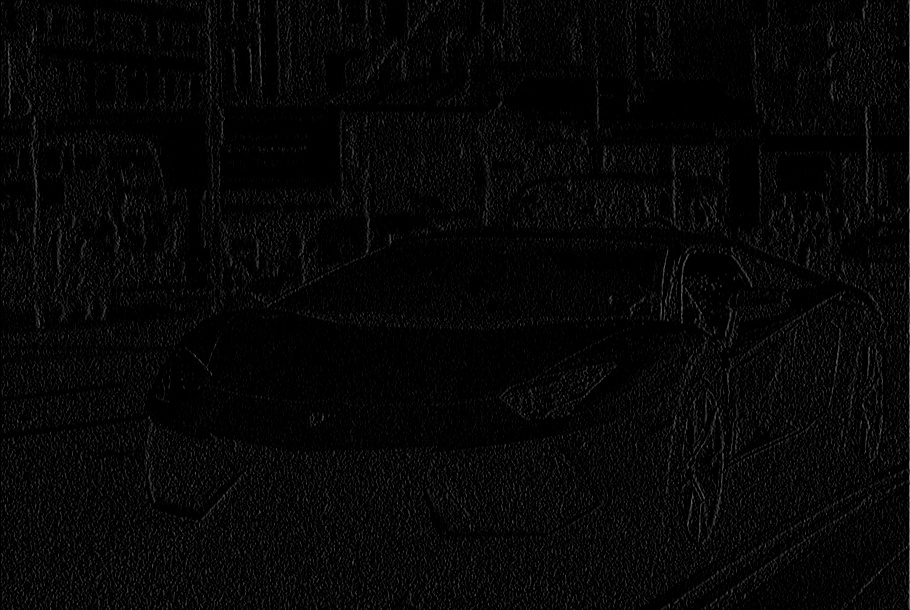
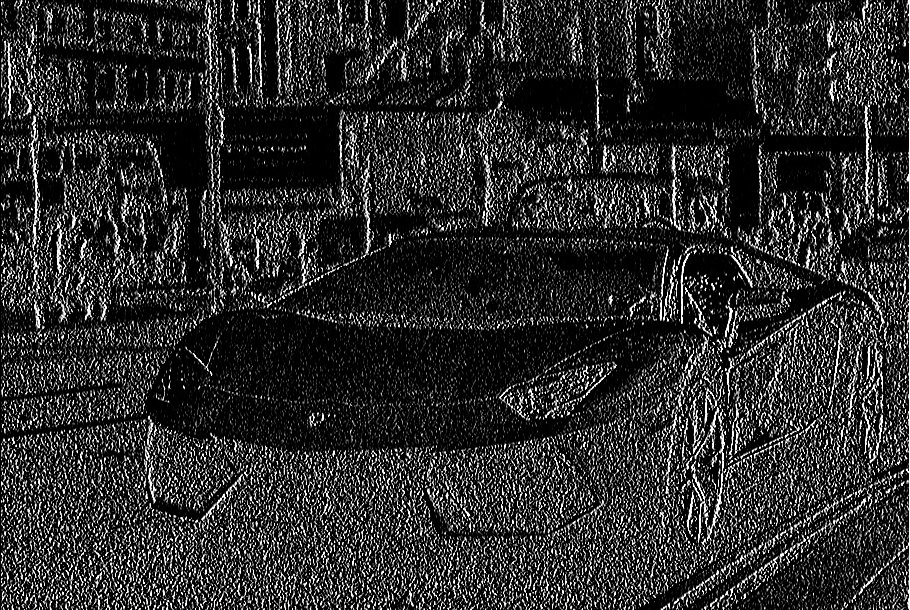
part 2 done

diff --git a/2/Ex2.py b/2/Ex2.py
@@ -44,7 +44,7 @@ def sobel_filter(img):
         input: img - 2D numpy array of the original image
         output: 2D numpy array of the filtered image"""
 
-    kernel_x = np.array([[1, 0, -1], [2, 0, -2], [1, 0, -1]]) * 1/8
+    kernel_x = np.array([[1, 0, -1], [2, 0, -2], [1, 0, -1]])
     grad_x = conv2d(img, kernel_x)
     return grad_x
 def fft(img):
